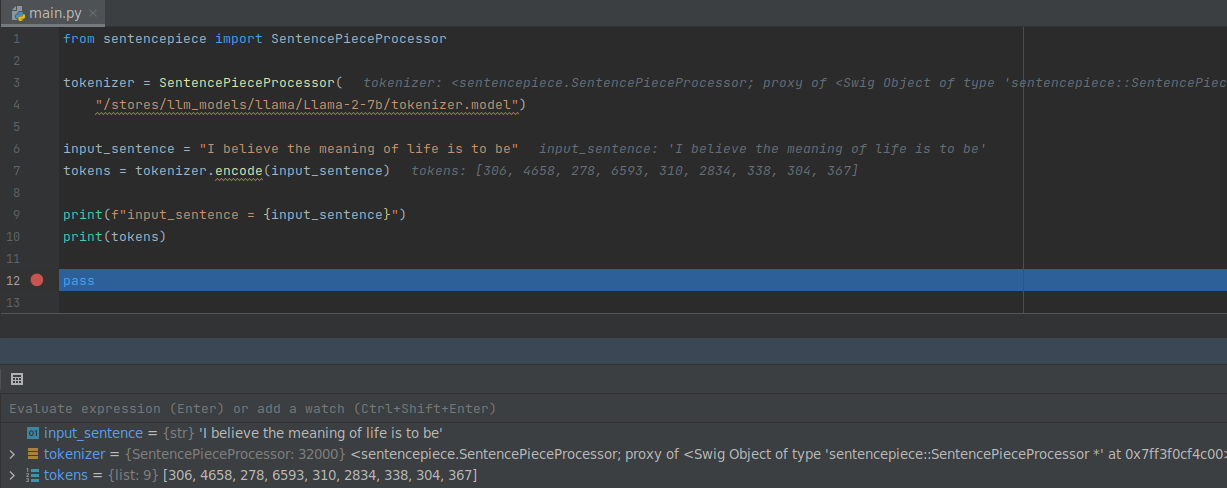
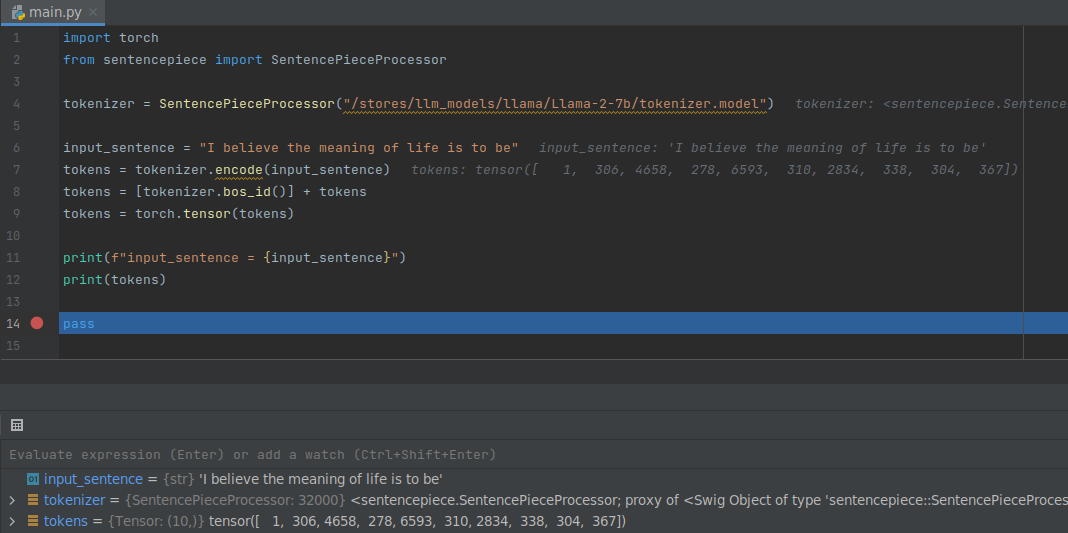
init

diff --git a/README.md b/README.md
@@ -86,13 +86,15 @@ this part will introduce operators that used in LLaMA2-7B model.
 ### 2.1 tokenizer.
 
 ```python
+import torch
 from sentencepiece import SentencePieceProcessor
 
-tokenizer = SentencePieceProcessor(
-    "/stores/llm_models/llama/Llama-2-7b/tokenizer.model")
+tokenizer = SentencePieceProcessor("/stores/llm_models/llama/Llama-2-7b/tokenizer.model")
 
 input_sentence = "I believe the meaning of life is to be"
 tokens = tokenizer.encode(input_sentence)
+tokens = [tokenizer.bos_id()] + tokens
+tokens = torch.tensor(tokens)
 
 print(f"input_sentence = {input_sentence}")
 print(tokens)
@@ -146,6 +148,10 @@ you can see **layers.*.attention_norm.weight** is the weight of γ (gamma) in RM
 
 ### 2.3 RoPE (Rotary Position Embedding).
 
+![image](images/RoPE-overview.png)
+
+above picture shows how RoPE embedded position info into Q and K.
+
 ```python
 import torch
 
@@ -164,6 +170,47 @@ print(freqs_2)
 ![image](images/freqs-overview.png)
 
 you can see **rope.freqs** in weight file is pre-computed freqs.
+
+```python
+import torch
+
+model = torch.load("/stores/llm_models/llama/Llama-2-7b/consolidated.00.pth")
+freqs = model["rope.freqs"].to(torch.float)
+
+token_length = 10
+
+freqs_for_each_token = torch.outer(torch.arange(token_length), freqs)
+freqs_cis = torch.polar(torch.ones_like(freqs_for_each_token), freqs_for_each_token)
+```
+
+![image](images/freqs_cis-overview.png)
+
+you can see the size of freqs_cis is **(10, 64)**.
+
+```python
+import torch
+from matplotlib import pyplot as plt
+
+model = torch.load("/stores/llm_models/llama/Llama-2-7b/consolidated.00.pth")
+freqs = model["rope.freqs"].to(torch.float)
+
+token_length = 10
+
+freqs_for_each_token = torch.outer(torch.arange(token_length), freqs)
+freqs_cis = torch.polar(torch.ones_like(freqs_for_each_token), freqs_for_each_token)
+
+value = freqs_cis[3]
+plt.figure()
+for i, element in enumerate(value):
+    plt.plot([0, element.real], [0, element.imag], color='blue', linewidth=1, label=f"Index: {i}")
+    plt.annotate(f"{i}", xy=(element.real, element.imag), color='red')
+plt.xlabel('Real')
+plt.ylabel('Imaginary')
+plt.title('freqs_cis (one row)')
+plt.show()
+```
+
+![image](images/freqs-one-row-overview.png)
 
 ### 2.4 MHA (Multi-Headed Attention).
 
@@ -224,8 +271,6 @@ token_embeddings_unnormalized = embedding_layer(tokens).to(torch.bfloat16)
 # --------------------
 # prepare freqs_cis
 # --------------------
-# zero_to_one_split_into_64_parts = torch.tensor(range(64)) / 64
-# freqs = 1.0 / (rope_theta**zero_to_one_split_into_64_parts)
 freqs = model["rope.freqs"].to(torch.float)
 freqs_for_each_token = torch.outer(torch.arange(len(tokens)), freqs)
 freqs_cis = torch.polar(torch.ones_like(freqs_for_each_token), freqs_for_each_token)
